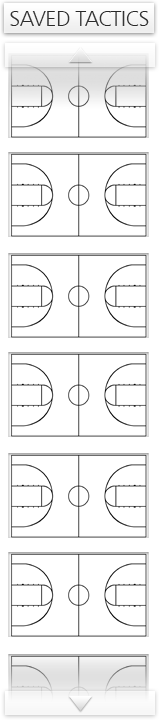
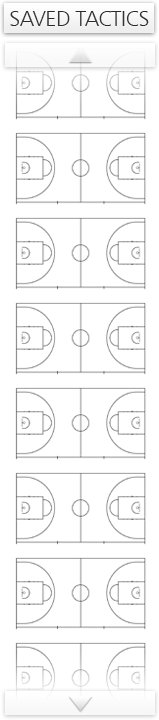
Changed court standards to FIBA's
Changed to FIBA's court available at
http://www.cbb.com.br/PortalCBB/Noticias/Show/7544

Minor changes: added disabled class to use in features that are still
under development

Changed region(s): [[0.0503, 0.0917, 0.956, 0.9778]]

diff --git a/www/index.html b/www/index.html
@@ -25,12 +25,12 @@
 
         <!-- Saved Tactics Menu -->
         <div id="saved-tactics">
-            <img src="img/saved-tactics.png" />
+            <img src="img/saved-tactics.png" class="disabled" />
         </div>
          <!-- /Saved Tactics Menu -->
 
         <!-- Court Canvas -->
-        <div id="mover" onclick="move()"></div>
+        <div id="mover" onclick="move()" class="disabled"></div>
         <canvas id="court" width="1085px" height="618px"></canvas>
         <!-- /Court Canvas -->
 

diff --git a/www/css/style.css b/www/css/style.css
@@ -10,6 +10,11 @@
 	padding: 0;
 }
 
+/* Disabled class */
+.disabled {
+	opacity: 0.3;
+}
+
 /* Application container */
 
 #container {
